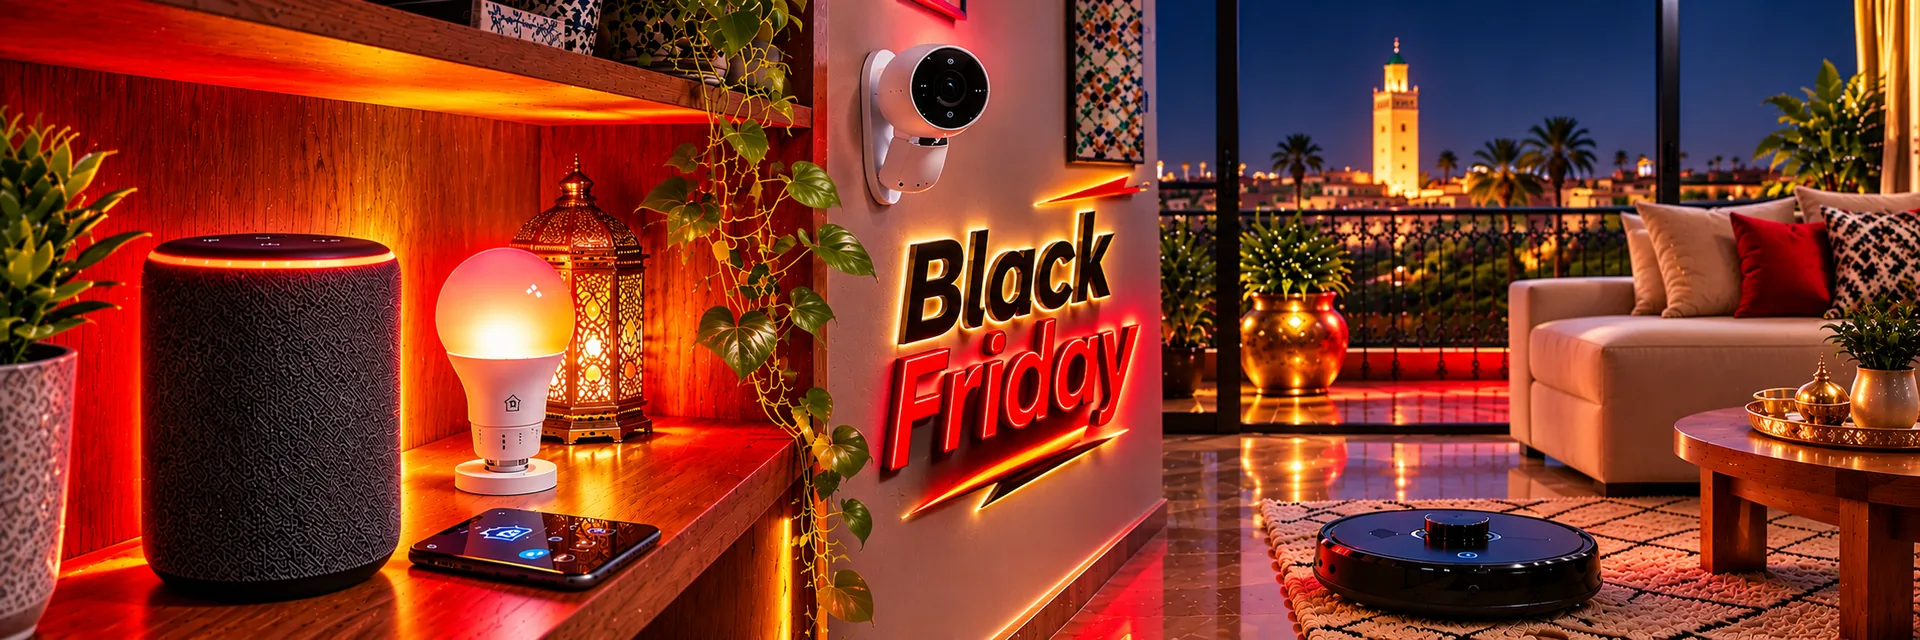
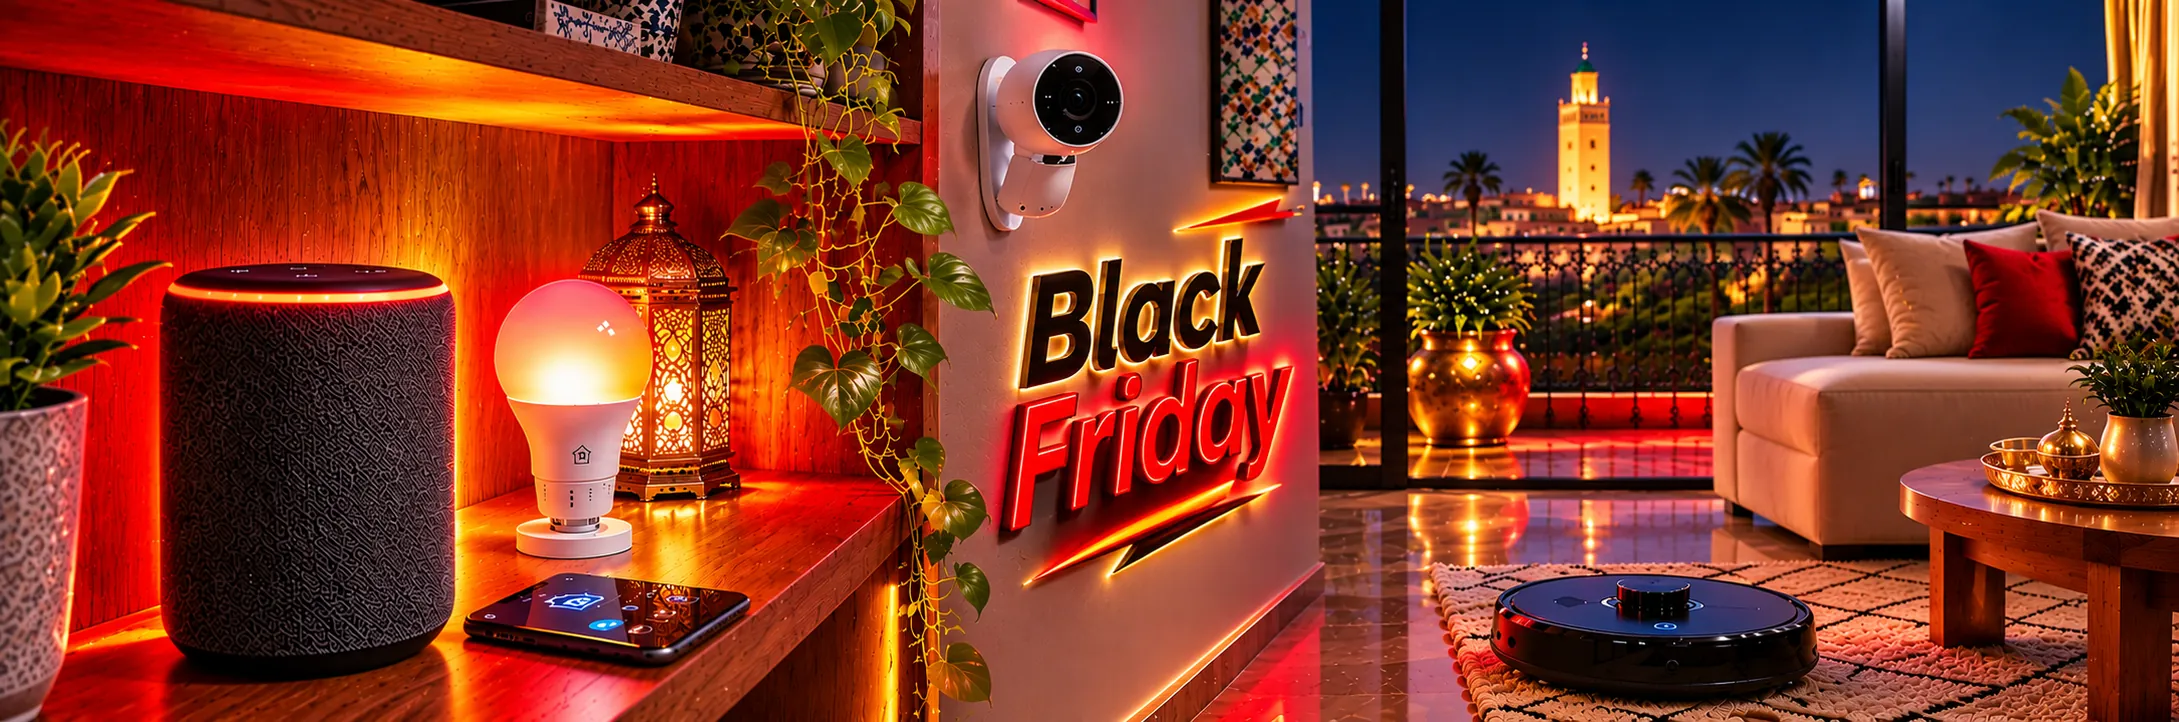
feat(events): visuels 2179x722 identiques a newphoto.webp, sans texte superpose, sapin cale sur le panier
1) Les 8 WebP sont regeneres EXACTEMENT aux dimensions de newphoto.webp (2179x722, 235-249 Ko) : plus aucun ecart de geometrie, et le hero ne declare plus 1600x900 (attributs corriges). 2) Suppression de TOUT texte ajoute : badge event-badge retire du JS et du CSS, seuls les titres integres aux visuels restent visibles. 3) Sapin CSS 3D deplace du banner vers #cartButton : 60x60 (54x54 mobile) = taille exacte du panier flottant, colle juste au-dessus (bottom:100%+6px).

Changed region(s): [[0.3125, 0.4375, 0.3438, 0.5], [0.3125, 0.5312, 0.3438, 0.5625], [0.25, 0.8125, 0.2812, 0.8438]]

diff --git a/css/events.b5bc0531.css b/css/events.b5bc0531.css
@@ -53,28 +53,8 @@ html[data-event] .responsive-hero-image {
   object-position: center;
 }
 
-/* Badge d'événement (fond sombre = contraste garanti quelle que soit la teinte). */
-.event-badge {
-  position: absolute;
-  z-index: 2;
-  top: 0.7rem;
-  inset-inline-start: 0.7rem;
-  display: inline-flex;
-  align-items: center;
-  gap: 0.4rem;
-  max-width: calc(100% - 1.4rem);
-  padding: 0.35rem 0.7rem;
-  border-radius: 999px;
-  border-inline-start: 3px solid var(--ev-accent, #a57b2e);
-  background: rgba(10, 10, 16, 0.82);
-  color: #fff;
-  font-size: 0.76rem;
-  font-weight: 700;
-  letter-spacing: 0.02em;
-  line-height: 1.2;
-  backdrop-filter: blur(6px);
-  -webkit-backdrop-filter: blur(6px);
-}
+/* Aucun badge, aucun texte superposé : les visuels contiennent déjà leur
+   titrage (demande client du 2026-11-20). Ne pas réintroduire de badge. */
 
 /* Halo de la couleur de l'événement derrière le titre. */
 html[data-event] .hero-title em {
@@ -110,15 +90,17 @@ html[data-event="christmas"] #navbar::after {
   animation: sw-garland 3.2s ease-in-out infinite alternate;
 }
 
-/* Sapin CSS 3D (deux triangles en perspective, aucune image). */
-html[data-event="christmas"] .newphoto-banner-wrapper::before {
+/* Sapin CSS 3D — calé sur le panier flottant.
+   Dimensions EXACTES du bouton panier (60x60 desktop, 54x54 mobile dans
+   la media query plus bas) et positionné juste au-dessus, à la même
+   verticale. Aucune image, aucun texte. */
+html[data-event="christmas"] #cartButton::before {
   content: "";
   position: absolute;
-  z-index: 2;
-  inset-inline-end: 0.9rem;
-  bottom: 0.5rem;
-  width: 74px;
-  height: 74px;
+  inset-inline-end: 0;
+  bottom: calc(100% + 6px);
+  width: 60px;
+  height: 60px;
   pointer-events: none;
   background:
     conic-gradient(from 210deg at 50% 42%, #1f7a3f, #0f4c27 55%, #1f7a3f),
@@ -126,7 +108,7 @@ html[data-event="christmas"] .newphoto-banner-wrapper::before {
   clip-path: polygon(50% 0%, 92% 62%, 66% 62%, 100% 100%, 0% 100%, 34% 62%, 8% 62%);
   transform: perspective(320px) rotateY(-12deg);
   transform-origin: 50% 100%;
-  opacity: 0.95;
+  filter: drop-shadow(0 2px 4px rgba(0, 0, 0, 0.28));
   animation: sw-tree-sway 5s ease-in-out infinite alternate;
 }
 
@@ -332,14 +314,14 @@ html[data-event="black-friday"] .hero-badge {
 
 html[data-fx="off"] #navbar::after,
 html[data-fx="off"] .hero-section::after,
-html[data-fx="off"] .newphoto-banner-wrapper::before {
+html[data-fx="off"] #cartButton::before {
   animation: none !important;
 }
 
 @media (prefers-reduced-motion: reduce) {
   html[data-event] #navbar::after,
   html[data-event] .hero-section::after,
-  html[data-event] .newphoto-banner-wrapper::before {
+  html[data-event] #cartButton::before {
     animation: none !important;
   }
   html[data-event="christmas"] .hero-section::after {
@@ -350,17 +332,15 @@ html[data-fx="off"] .newphoto-banner-wrapper::before {
 /* ---------- 12. Mobile : décors allégés ---------- */
 
 @media (max-width: 600px) {
-  html[data-event] .newphoto-banner-wrapper::before {
-    display: none; /* sapin / motifs : trop petits pour être lisibles */
+  /* Le sapin suit la taille mobile du panier (54x54). */
+  html[data-event="christmas"] #cartButton::before {
+    width: 54px;
+    height: 54px;
   }
   html[data-event="ramadan"] #navbar::after {
     bottom: -22px;
     height: 22px;
     background-size: 90px 22px;
-  }
-  .event-badge {
-    font-size: 0.7rem;
-    padding: 0.3rem 0.55rem;
   }
 }
 

diff --git a/events.css b/events.css
@@ -53,28 +53,8 @@ html[data-event] .responsive-hero-image {
   object-position: center;
 }
 
-/* Badge d'événement (fond sombre = contraste garanti quelle que soit la teinte). */
-.event-badge {
-  position: absolute;
-  z-index: 2;
-  top: 0.7rem;
-  inset-inline-start: 0.7rem;
-  display: inline-flex;
-  align-items: center;
-  gap: 0.4rem;
-  max-width: calc(100% - 1.4rem);
-  padding: 0.35rem 0.7rem;
-  border-radius: 999px;
-  border-inline-start: 3px solid var(--ev-accent, #a57b2e);
-  background: rgba(10, 10, 16, 0.82);
-  color: #fff;
-  font-size: 0.76rem;
-  font-weight: 700;
-  letter-spacing: 0.02em;
-  line-height: 1.2;
-  backdrop-filter: blur(6px);
-  -webkit-backdrop-filter: blur(6px);
-}
+/* Aucun badge, aucun texte superposé : les visuels contiennent déjà leur
+   titrage (demande client du 2026-11-20). Ne pas réintroduire de badge. */
 
 /* Halo de la couleur de l'événement derrière le titre. */
 html[data-event] .hero-title em {
@@ -110,15 +90,17 @@ html[data-event="christmas"] #navbar::after {
   animation: sw-garland 3.2s ease-in-out infinite alternate;
 }
 
-/* Sapin CSS 3D (deux triangles en perspective, aucune image). */
-html[data-event="christmas"] .newphoto-banner-wrapper::before {
+/* Sapin CSS 3D — calé sur le panier flottant.
+   Dimensions EXACTES du bouton panier (60x60 desktop, 54x54 mobile dans
+   la media query plus bas) et positionné juste au-dessus, à la même
+   verticale. Aucune image, aucun texte. */
+html[data-event="christmas"] #cartButton::before {
   content: "";
   position: absolute;
-  z-index: 2;
-  inset-inline-end: 0.9rem;
-  bottom: 0.5rem;
-  width: 74px;
-  height: 74px;
+  inset-inline-end: 0;
+  bottom: calc(100% + 6px);
+  width: 60px;
+  height: 60px;
   pointer-events: none;
   background:
     conic-gradient(from 210deg at 50% 42%, #1f7a3f, #0f4c27 55%, #1f7a3f),
@@ -126,7 +108,7 @@ html[data-event="christmas"] .newphoto-banner-wrapper::before {
   clip-path: polygon(50% 0%, 92% 62%, 66% 62%, 100% 100%, 0% 100%, 34% 62%, 8% 62%);
   transform: perspective(320px) rotateY(-12deg);
   transform-origin: 50% 100%;
-  opacity: 0.95;
+  filter: drop-shadow(0 2px 4px rgba(0, 0, 0, 0.28));
   animation: sw-tree-sway 5s ease-in-out infinite alternate;
 }
 
@@ -332,14 +314,14 @@ html[data-event="black-friday"] .hero-badge {
 
 html[data-fx="off"] #navbar::after,
 html[data-fx="off"] .hero-section::after,
-html[data-fx="off"] .newphoto-banner-wrapper::before {
+html[data-fx="off"] #cartButton::before {
   animation: none !important;
 }
 
 @media (prefers-reduced-motion: reduce) {
   html[data-event] #navbar::after,
   html[data-event] .hero-section::after,
-  html[data-event] .newphoto-banner-wrapper::before {
+  html[data-event] #cartButton::before {
     animation: none !important;
   }
   html[data-event="christmas"] .hero-section::after {
@@ -350,17 +332,15 @@ html[data-fx="off"] .newphoto-banner-wrapper::before {
 /* ---------- 12. Mobile : décors allégés ---------- */
 
 @media (max-width: 600px) {
-  html[data-event] .newphoto-banner-wrapper::before {
-    display: none; /* sapin / motifs : trop petits pour être lisibles */
+  /* Le sapin suit la taille mobile du panier (54x54). */
+  html[data-event="christmas"] #cartButton::before {
+    width: 54px;
+    height: 54px;
   }
   html[data-event="ramadan"] #navbar::after {
     bottom: -22px;
     height: 22px;
     background-size: 90px 22px;
-  }
-  .event-badge {
-    font-size: 0.7rem;
-    padding: 0.3rem 0.55rem;
   }
 }
 

diff --git a/js/events-calendar.js b/js/events-calendar.js
@@ -293,12 +293,11 @@ function swapHero(event) {
   const original = captureOriginalHero();
   if (!original) return;
   const img = original.el;
-  /* Les visuels événementiels sont en 1920x640 (ratio panoramique) :
-     on aligne les attributs pour éviter tout décalage de mise en page. */
+  /* Les visuels ont EXACTEMENT les dimensions de newphoto.webp (2179x722) :
+     on ne touche ni à width ni à height, donc aucun décalage de mise en page.
+     Aucun texte n'est ajouté : les visuels contiennent déjà leur titrage. */
   img.setAttribute("src", event.image);
-  img.setAttribute("width", "1920");
-  img.setAttribute("height", "640");
-  img.setAttribute("alt", `${original.alt} — ${event.id}`);
+  img.setAttribute("alt", `${original.alt} — ${getEventLabel(event, currentLang())}`);
   img.classList.add("is-event-hero");
 }
 
@@ -314,23 +313,9 @@ function preloadImage(src) {
   }
 }
 
-/** Affiche (ou retire) le badge textuel de l'événement. */
-function setEventBadge(text) {
-  const wrapper = document.querySelector(".newphoto-banner-wrapper");
-  if (!wrapper) return;
-  let badge = wrapper.querySelector(".event-badge");
-  if (!text) {
-    if (badge) badge.remove();
-    return;
-  }
-  if (!badge) {
-    badge = document.createElement("span");
-    badge.className = "event-badge";
-    badge.id = "eventBadge";
-    wrapper.appendChild(badge);
-  }
-  badge.textContent = text;
-}
+/* Aucun texte n'est ajouté à la page : les titres d'événement sont déjà
+   intégrés DANS les visuels. L'ancien badge `.event-badge` a été supprimé
+   (demande client du 2026-11-20) : rien ne doit se superposer aux images. */
 
 /** Langue courante sans dépendre de js/utils.js (module testable hors DOM). */
 function currentLang() {
@@ -349,12 +334,10 @@ function applyState(event) {
     html.removeAttribute("data-event");
     html.style.removeProperty("--ev-accent");
     restoreHero();
-    setEventBadge("");
   } else {
     html.setAttribute("data-event", event.id);
     html.style.setProperty("--ev-accent", event.accent);
     swapHero(event);
-    setEventBadge(getEventLabel(event, currentLang()));
     preloadImage(event.image);
   }
 
@@ -435,13 +418,6 @@ export async function initEventsCalendar(options = {}) {
   if (options.disableEffects || shouldDisableEffects(window.location.search, reduceMotion)) {
     document.documentElement.setAttribute("data-fx", "off");
   }
-
-  /* Un changement de langue doit rafraîchir le badge. */
-  document.addEventListener("lang-changed", () => {
-    if (STATE.currentEventId) {
-      setEventBadge(getEventLabel(getEventById(STATE.currentEventId), currentLang()));
-    }
-  });
 
   /* Onglet en arrière-plan : minuteurs throttlés, on resynchronise. */
   document.addEventListener("visibilitychange", () => {

diff --git a/vendor-login.html b/vendor-login.html
@@ -14,7 +14,7 @@
   <link href="https://fonts.googleapis.com/css2?family=Playfair+Display:wght@400;700&family=Inter:wght@400;500;700&family=Cairo:wght@400;600;700&family=Amiri:wght@400;700&display=swap" rel="stylesheet">
   <link rel="stylesheet" href="/css/style.485f2e61.css">
   <link rel="stylesheet" href="/css/style-patches.3c6376dd.css">
-    <link rel="stylesheet" href="/css/events.fbd6a163.css">
+    <link rel="stylesheet" href="/css/events.b5bc0531.css">
   <style>
     body.vendor-login-page{min-height:100dvh;margin:0;background:var(--bg);color:var(--text);font-family:var(--font-primary);display:flex;flex-direction:column}
     .login-topbar{height:72px;display:flex;align-items:center;justify-content:space-between;gap:1rem;padding:0 clamp(1rem,5vw,4rem);background:var(--bg-card);border-bottom:1px solid var(--border)}

diff --git a/index.html b/index.html
@@ -109,7 +109,7 @@
 
     <link rel="stylesheet" href="/css/style.485f2e61.css">
     <link rel="stylesheet" href="/css/style-patches.3c6376dd.css">
-    <link rel="stylesheet" href="/css/events.fbd6a163.css">
+    <link rel="stylesheet" href="/css/events.b5bc0531.css">
     <script src="/translations.js"></script>
 </head>
 <body>
@@ -181,8 +181,8 @@
             src="/assets/newphoto.webp"
             alt="Smartswika — Gadgets et Smart Home au Maroc"
             class="responsive-hero-image"
-            width="1600"
-            height="900"
+            width="2179"
+            height="722"
             loading="eager"
             fetchpriority="high"
             decoding="async">

diff --git a/produit.html b/produit.html
@@ -53,7 +53,7 @@
 
     <link rel="stylesheet" href="/css/style.485f2e61.css">
     <link rel="stylesheet" href="/css/style-patches.3c6376dd.css">
-    <link rel="stylesheet" href="/css/events.fbd6a163.css">
+    <link rel="stylesheet" href="/css/events.b5bc0531.css">
     <script src="/translations.js"></script>
 
     <!-- Clés i18n complémentaires (product-detail, guide des tailles, avis).

diff --git a/inscription-vendeur.html b/inscription-vendeur.html
@@ -34,7 +34,7 @@
 
     <link rel="stylesheet" href="/css/style.485f2e61.css">
     <link rel="stylesheet" href="/css/style-patches.3c6376dd.css">
-    <link rel="stylesheet" href="/css/events.fbd6a163.css">
+    <link rel="stylesheet" href="/css/events.b5bc0531.css">
     <link rel="stylesheet" href="/vendor-style.css">
 
     <!-- Fallback critique (indépendant de vendor-style.css) -->

diff --git a/vendor/dashboard.html b/vendor/dashboard.html
@@ -33,7 +33,7 @@
 
     <link rel="stylesheet" href="/css/style.485f2e61.css">
     <link rel="stylesheet" href="/css/style-patches.3c6376dd.css">
-    <link rel="stylesheet" href="/css/events.fbd6a163.css">
+    <link rel="stylesheet" href="/css/events.b5bc0531.css">
     <link rel="stylesheet" href="/vendor-style.css">
 
     <!-- Fallback critique (indépendant de vendor-style.css) -->

diff --git a/cgu-acheteur.html b/cgu-acheteur.html
@@ -28,7 +28,7 @@
 
     <link rel="stylesheet" href="/css/style.485f2e61.css">
     <link rel="stylesheet" href="/css/style-patches.3c6376dd.css">
-    <link rel="stylesheet" href="/css/events.fbd6a163.css">
+    <link rel="stylesheet" href="/css/events.b5bc0531.css">
     <link rel="stylesheet" href="/css/legal.e398ae57.css">
     <script src="/translations.js"></script>
     <style>

diff --git a/cgu-vendeur.html b/cgu-vendeur.html
@@ -28,7 +28,7 @@
 
     <link rel="stylesheet" href="/css/style.485f2e61.css">
     <link rel="stylesheet" href="/css/style-patches.3c6376dd.css">
-    <link rel="stylesheet" href="/css/events.fbd6a163.css">
+    <link rel="stylesheet" href="/css/events.b5bc0531.css">
     <link rel="stylesheet" href="/css/legal.e398ae57.css">
     <script src="/translations.js"></script>
     <style>

diff --git a/contrat-vendeur.html b/contrat-vendeur.html
@@ -28,7 +28,7 @@
 
     <link rel="stylesheet" href="/css/style.485f2e61.css">
     <link rel="stylesheet" href="/css/style-patches.3c6376dd.css">
-    <link rel="stylesheet" href="/css/events.fbd6a163.css">
+    <link rel="stylesheet" href="/css/events.b5bc0531.css">
     <link rel="stylesheet" href="/css/legal.e398ae57.css">
     <script src="/translations.js"></script>
     <style>

diff --git a/politique-confidentialite.html b/politique-confidentialite.html
@@ -28,7 +28,7 @@
 
     <link rel="stylesheet" href="/css/style.485f2e61.css">
     <link rel="stylesheet" href="/css/style-patches.3c6376dd.css">
-    <link rel="stylesheet" href="/css/events.fbd6a163.css">
+    <link rel="stylesheet" href="/css/events.b5bc0531.css">
     <link rel="stylesheet" href="/css/legal.e398ae57.css">
     <script src="/translations.js"></script>
     <style>
